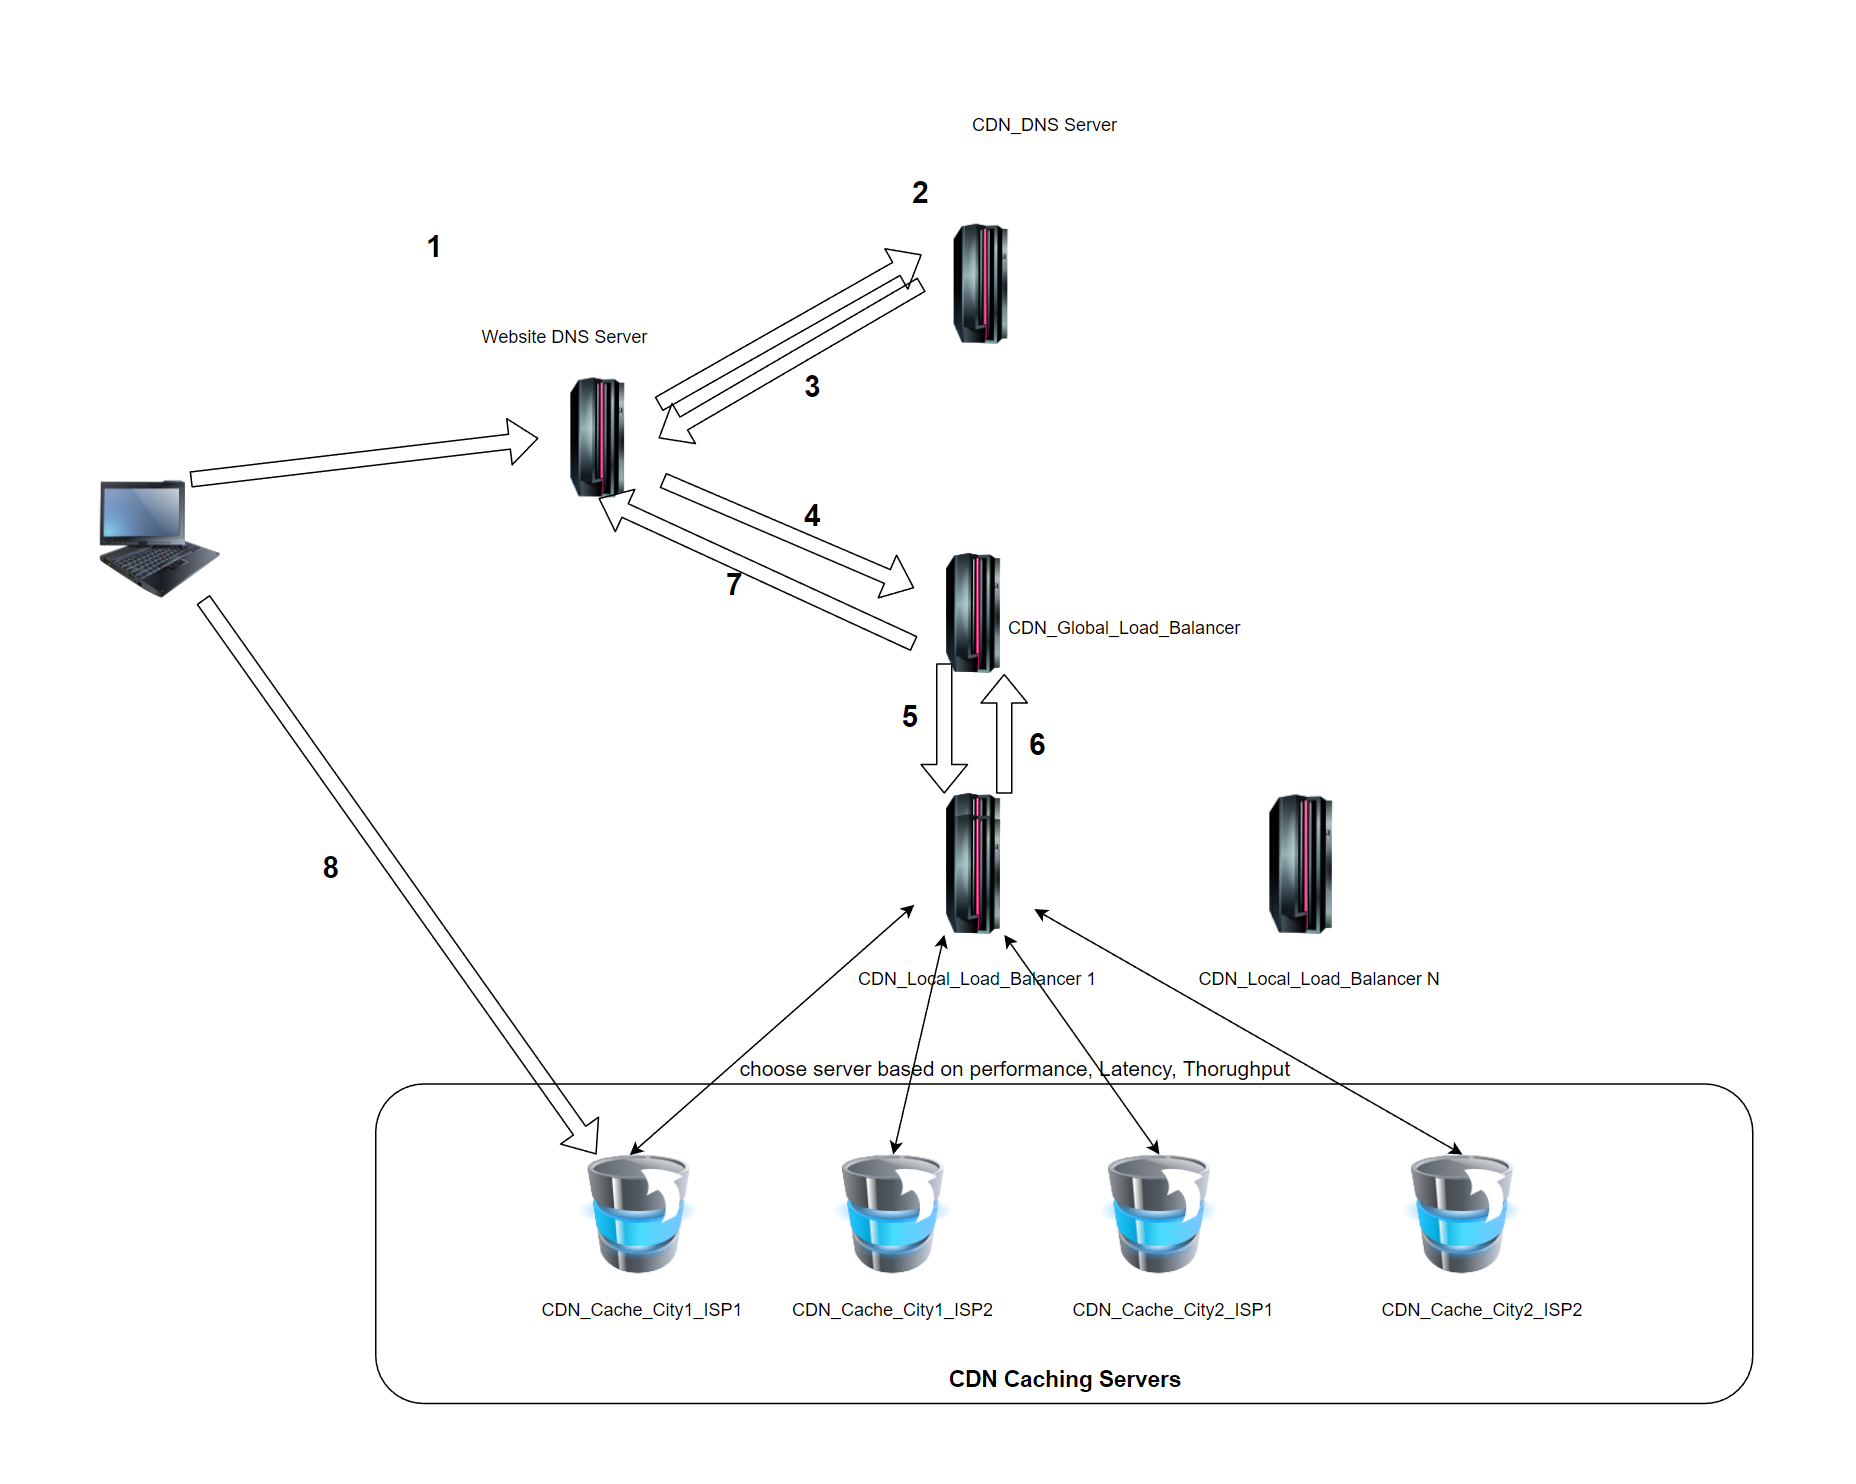
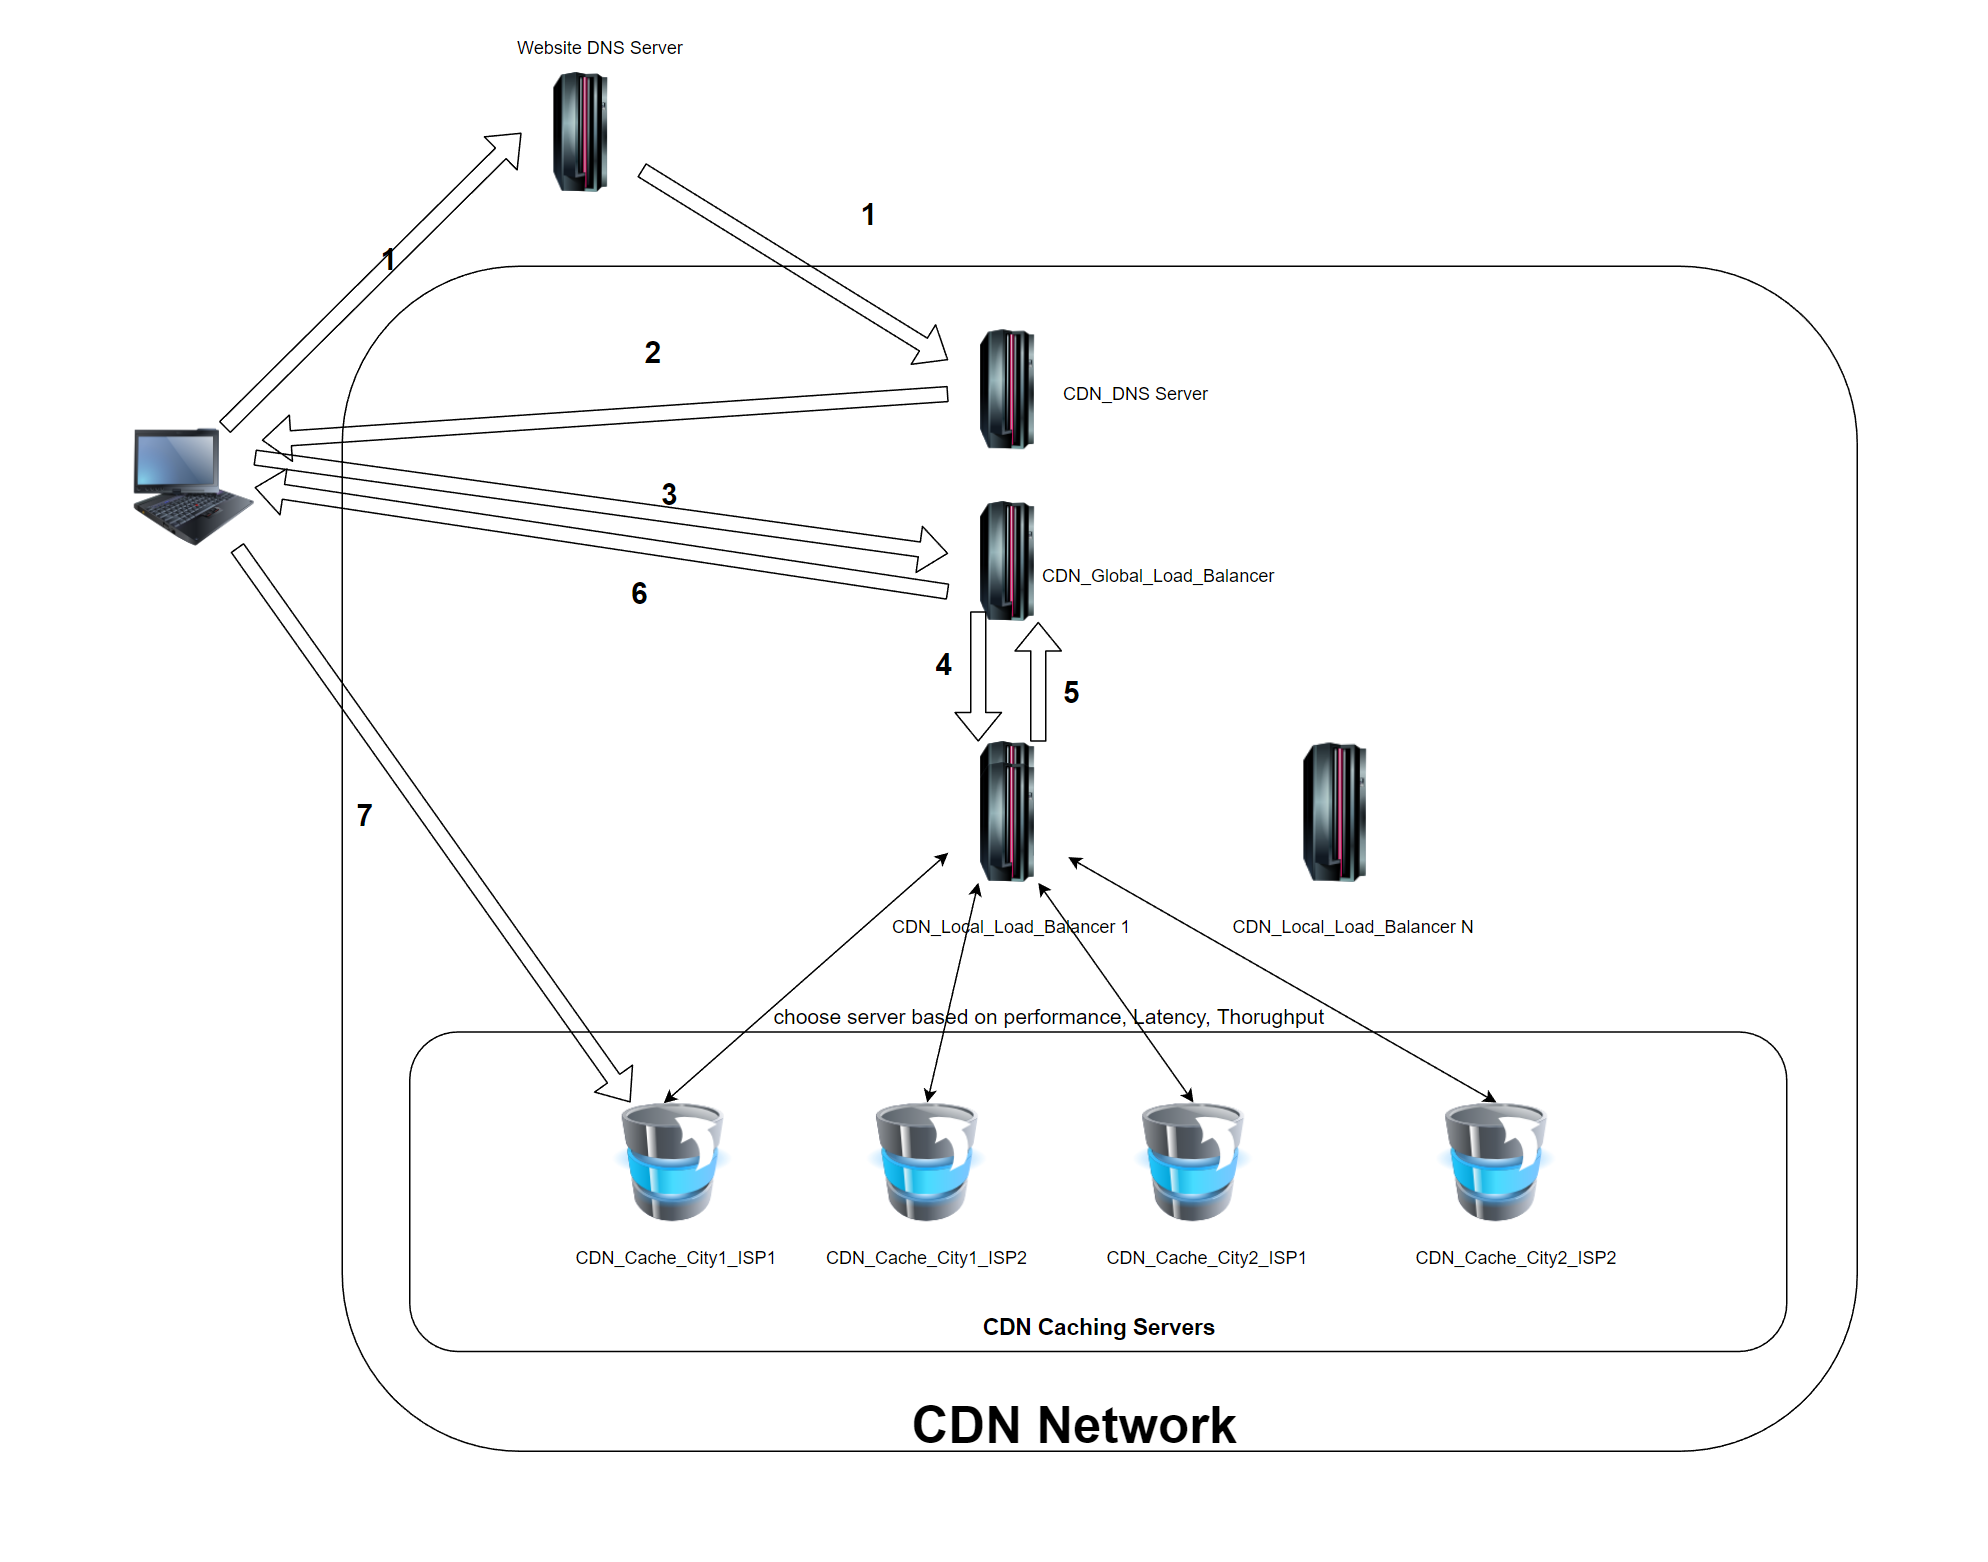
update CDN

diff --git a/public/posts/cdn_notes/index.html b/public/posts/cdn_notes/index.html
@@ -117,7 +117,18 @@ In addition, when your business grows bigger, your website for sure will add mor
 </li>
 <li>User get response from cache server, if the cache server doesn&rsquo;t have the requested resource, it will request content from upper layer caching server, until the source server, and pull resource to local.</li>
 </ol>
+<blockquote>
+<p>CDN Components</p>
+</blockquote>
+<p><img src="https://songkou.github.io/posts/cdn_notes/CDN_components.png" alt="CDN logic workflow"></p>
+<blockquote>
+<p>CDN logic workflow</p>
+</blockquote>
 <p><img src="https://songkou.github.io/posts/cdn_notes/CDN.png" alt="CDN logic workflow"></p>
+<blockquote>
+<p>GLSB logic workflow</p>
+</blockquote>
+<p><img src="https://songkou.github.io/posts/cdn_notes/CDN.png" alt="GLSB workflow"></p>
 <h3 id="summary">Summary:</h3>
 <p>CDN is a policy based service as a whole, Which include [Distributed Storage], [Traffic Management], [Content management] three key elements.</p>
 <p>[Traffic Management] &amp; [Content Management] is the core of CDN.</p>

diff --git a/content/posts/CDN_Notes.md b/content/posts/CDN_Notes.md
@@ -57,7 +57,17 @@ It also have some other benefits, such as:
     - Criteria include and may not limit to: user IP, Content of URL, Server performance, latency.
 5. User get response from cache server, if the cache server doesn't have the requested resource, it will request content from upper layer caching server, until the source server, and pull resource to local.
 
+> CDN Components
+
+![CDN logic workflow](https://songkou.github.io/posts/cdn_notes/CDN_components.png)
+
+> CDN logic workflow
+
 ![CDN logic workflow](https://songkou.github.io/posts/cdn_notes/CDN.png)
+
+> GLSB logic workflow
+> 
+![GLSB workflow](https://songkou.github.io/posts/cdn_notes/CDN.png)
 
 ### Summary:
 
